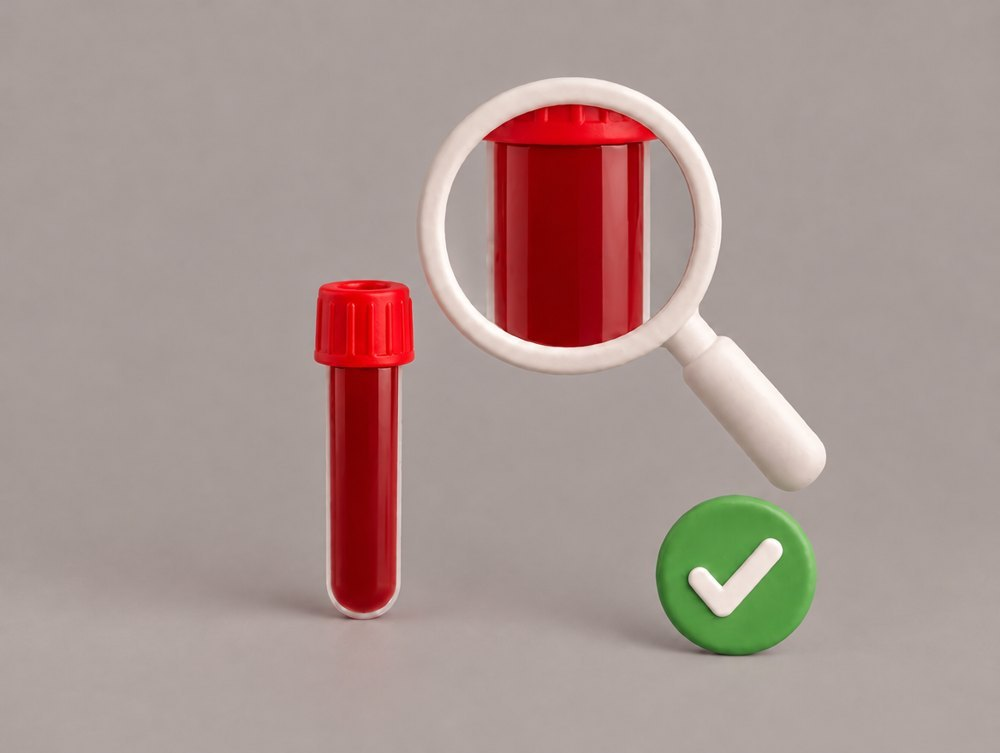
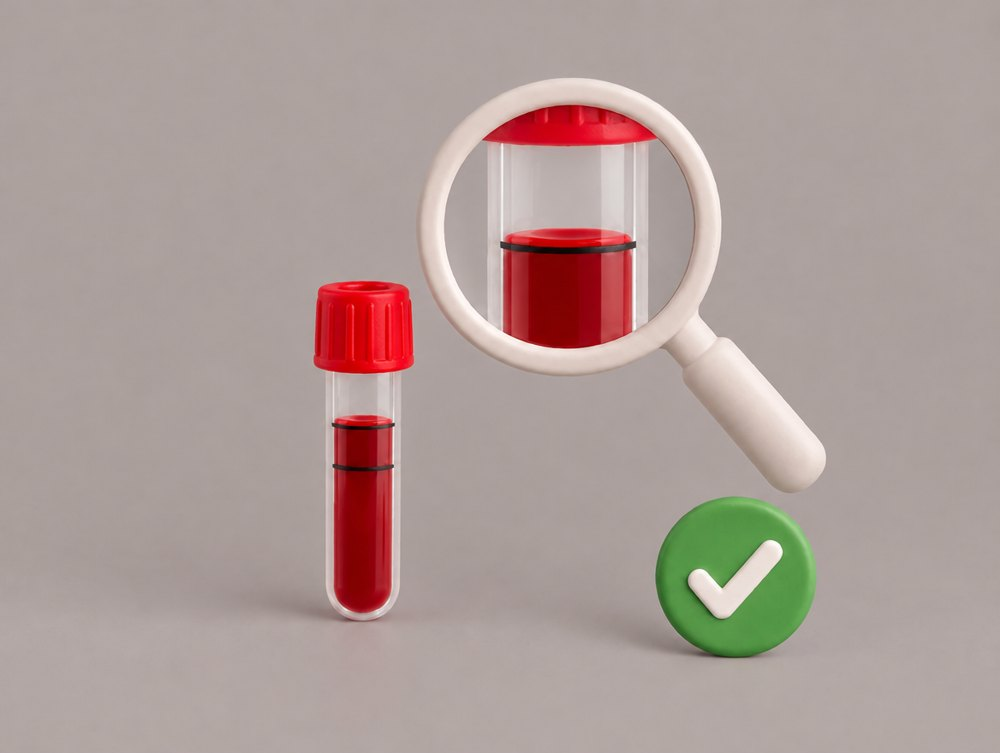
Prüfpunkt: Oberarm reicht mindestens bis zur oberen Linie, nur Finger bis oben voll

diff --git a/index.html b/index.html
@@ -137,9 +137,9 @@ const T = {
            'Es ist <b>vormittags</b> (7–10 Uhr), <b>Montag bis Donnerstag</b>.',
            'Ich habe einen <b>Timer</b> bereit.'],
         los:'Alles erledigt — los geht’s', ifu:'Vor Gebrauch die Gebrauchsanweisung des Geräteherstellers lesen. Nur für Erwachsene.',
-        stopp:'Stopp · Prüfen', pruefH:'Röhrchen bis oben voll?',
-        pruefP:'Röhrchen senkrecht halten. Ganz voll: fertig, nur noch verpacken. Nicht voll: mit dem Finger weiter.',
-        ja:'Ja, voll', jaS:'Weiter mit Verpacken', nein:'Nein', neinS:'Mit dem Finger weiter',
+        stopp:'Stopp · Prüfen', pruefH:'Blut mindestens bis zur oberen Linie?',
+        pruefP:'Röhrchen senkrecht halten. Bis zur oberen Linie oder darüber: fertig, nur noch verpacken. Darunter: mit dem Finger weiter.',
+        ja:'Ja', jaS:'Weiter mit Verpacken', nein:'Nein', neinS:'Mit dem Finger weiter',
         fertigH:'Geschafft!', fertigP:'Danke. Bis zur Post bei Zimmertemperatur lagern — nicht auf die Heizung, nicht in die Sonne.',
         schritt:(n, N) => `Schritt ${n} von ${N}`, zurueck:'Zurück', weiter:'Weiter' },
   en: { kicker:'Blood sampling at home', h1:'Step by step.',
@@ -149,9 +149,9 @@ const T = {
            'It is <b>morning</b> (7–10 am), <b>Monday to Thursday</b>.',
            'I have a <b>timer</b> ready.'],
         los:'All done — let’s go', ifu:'Read the device manufacturer’s instructions before use. Adults only.',
-        stopp:'Stop · Check', pruefH:'Is the tube full to the top?',
-        pruefP:'Hold the tube upright. Completely full: done, just pack it. Not full: continue with the finger.',
-        ja:'Yes, full', jaS:'Continue with packing', nein:'No', neinS:'Continue with the finger',
+        stopp:'Stop · Check', pruefH:'Blood at least up to the upper line?',
+        pruefP:'Hold the tube upright. Up to the upper line or above: done, just pack it. Below: continue with the finger.',
+        ja:'Yes', jaS:'Continue with packing', nein:'No', neinS:'Continue with the finger',
         fertigH:'Done!', fertigP:'Thank you. Keep at room temperature until posting — not on a radiator, not in the sun.',
         schritt:(n, N) => `Step ${n} of ${N}`, zurueck:'Back', weiter:'Next' },
 };
